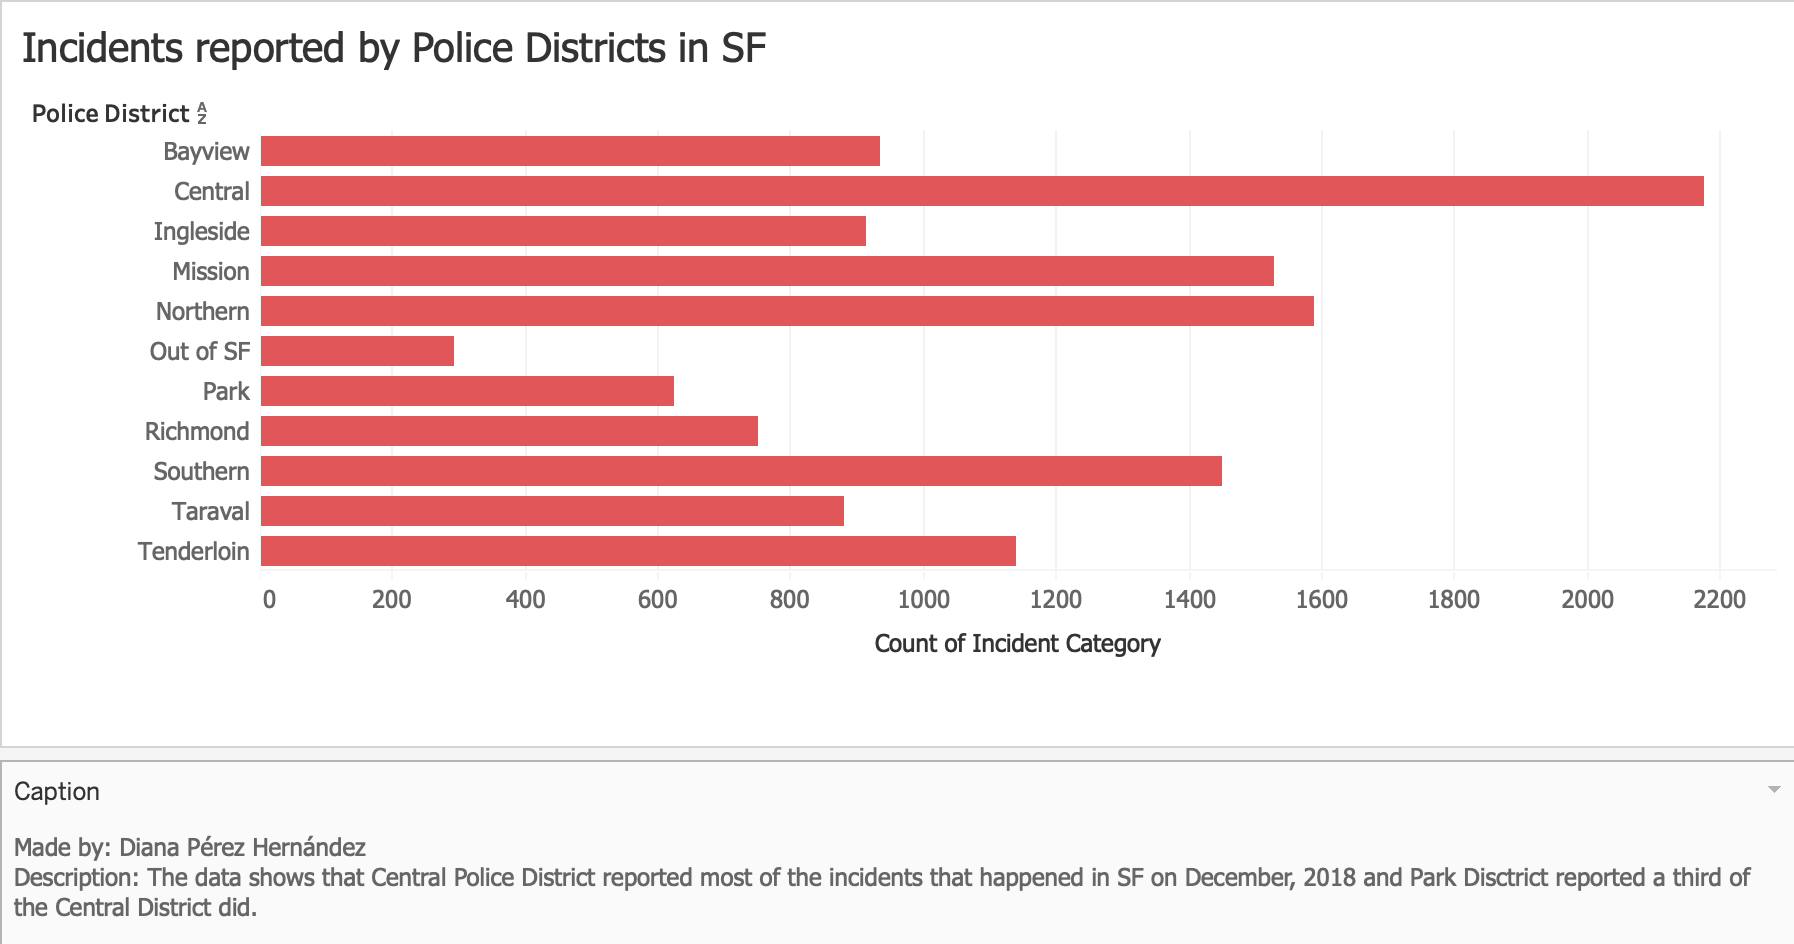
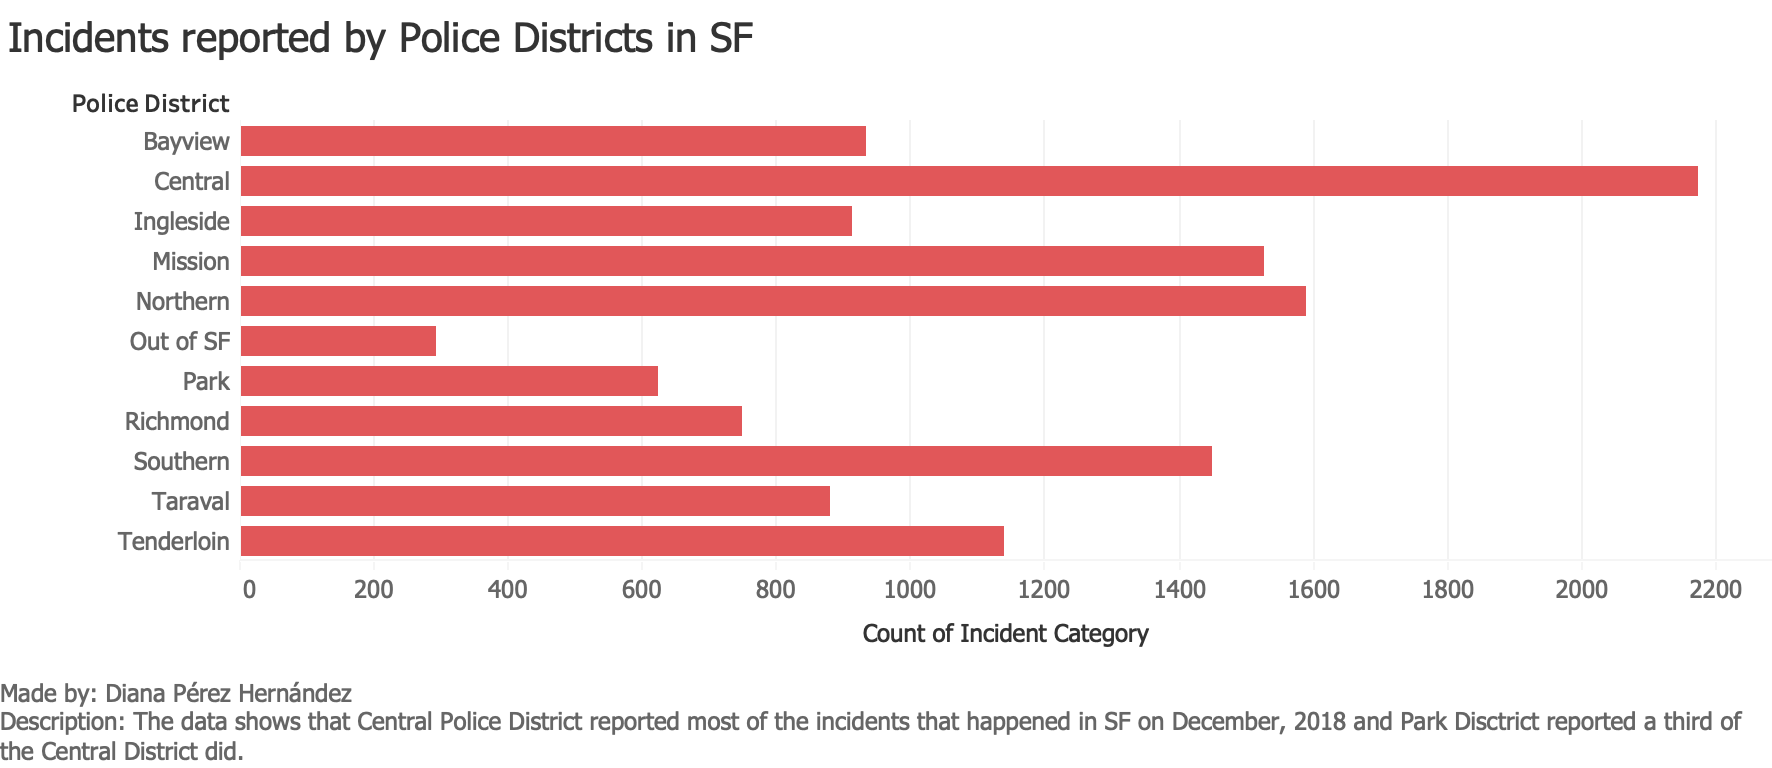
Replacing imgs, adding format to vis2

diff --git a/viz2.js b/viz2.js
@@ -9,7 +9,7 @@ var drawStackBar = function(data) {
   var svg = d3.select("body").select("svg#svg2");
   var bounds = svg.node().getBoundingClientRect();
   var plotWidth = 430;
-  var plotHeight = 500;
+  var plotHeight = 390;
   var countScale = d3.scaleLinear()
     .domain([countMin, countMax])
     .range([plotHeight - 100, 40])
@@ -17,11 +17,11 @@ var drawStackBar = function(data) {
 
   var dayScale = d3.scaleBand()
     .domain(policeDistrictByDay.keys())
-    .range([0, plotWidth + 300])
-    .paddingInner(0.4);
+    .range([0, plotWidth + 200])
+    .paddingInner(0.3);
 
   var margin = {
-    top:    -20,
+    top:    30,
     right:  45,
     bottom: 30,
     left:   80
@@ -42,7 +42,7 @@ var drawStackBar = function(data) {
 
   //Inspired by https://bl.ocks.org/KingOfCramers/04dcd9742a2be13d99db5f7a7480b4ca
   var districts = getDistricts();
-  console.log(districts);
+
   var stack = d3.stack()
       .keys(districts)
       .order(d3.stackOrderNone)
@@ -64,6 +64,79 @@ var drawStackBar = function(data) {
   var series = stack(policeDistrictByDay.values());
   var heightScale = d3.scaleLinear().domain([0,60]).range([20, 480]);
 
+  svg.append("text")
+        .attr("x", margin.left - 60)
+        .attr("y", margin.top)
+        .attr("text-anchor", "left")
+        .style("font-size", "23px")
+        .text("Daily Incidents reported by Police District");
+
+  svg.append("text")
+        .attr("x", margin.left - 360)
+        .attr("y", margin.top + 10)
+        .attr("text-anchor", "left")
+        .attr("transform", "rotate(-90)")
+        .style("font-size", "13px")
+        .text("Count of Incident Day");
+
+  svg.append("text")
+        .attr("x", margin.left + 280)
+        .attr("y", margin.top + 35)
+        .attr("text-anchor", "left")
+        .style("font-size", "13px")
+        .text("Day of Incident Date");
+
+  var caption = svg.append("text")
+        .attr("x", margin.left - 120)
+        .attr("y", margin.top + 400)
+        .attr("text-anchor", "right")
+        .style("font-size", "12px");
+
+  var captionText = "Made by: Diana Pérez Hernández\n"+
+        "Description: On December 25, the amount of incidents" +
+        "reported for every district had a significant decrease."+
+        "Still the amont of incidents\nreported every day doesn't "+
+        "vary much with an exception of December 25."
+
+  caption.selectAll("tspan.text")
+          .data(captionText.split("\n"))
+          .enter()
+          .append("tspan")
+          .attr("class", "text")
+          .text(d => d)
+          .attr("x", 20)
+          .attr("dx", 10)
+          .attr("dy", 15);
+
+  svg.append("text")
+    .attr("x", 735)
+    .attr("y", 65)
+    .attr("text-anchor", "left")
+    .style("font-size", "15px")
+    .text("Police District");
+
+  var y = 65;
+  var districtsReverse = districts.reverse();
+  for (var i in districtsReverse) {
+    svg.append("text")
+        .attr("x", 760)
+        .attr("y", y + 20)
+        .attr("text-anchor", "right")
+        .style("font-size", "14px")
+        .text(districts[i]);
+        y += 20;
+  }
+  y = 53;
+  for (var i in districtsReverse) {
+    console.log(colorScale(districtsReverse[i]) );
+    svg.append("rect")
+        .attr("x", 740)
+        .attr("y", y + 20)
+        .attr("width", 15)
+        .attr("height", 15)
+        .style("fill", colorScale(districtsReverse[i]));
+        y += 20;
+  }
   plot.selectAll("g.bar")
     .data(series)
     .enter()

diff --git a/viz1.js b/viz1.js
@@ -11,8 +11,8 @@ var drawBarChart = function(data) {
   //Took from http://bl.ocks.org/sjengle/e8c0d6abc0a8d52d4b11
   var svg = d3.select("body").select("svg#svg1");
   var bounds = svg.node().getBoundingClientRect();
-  var plotWidth = 430;
-  var plotHeight = 880;
+  var plotWidth = 350;
+  var plotHeight = 780;
 
   /*Scales*/
   var countScale = d3.scaleLinear()
@@ -27,10 +27,10 @@ var drawBarChart = function(data) {
 
 
   var margin = {
-    top:    -30,
+    top:    -10,
     right:  35,
     bottom: 30,
-    left:   40
+    left:   150
   };
   var plot = svg.select("g#plot");
   if (plot.size() < 1) {
@@ -46,38 +46,59 @@ var drawBarChart = function(data) {
 
   var yAxis = d3.axisLeft(districtScale);
 
-  var xPos = plotHeight - 450;
+  var xPos = plotHeight - 430;
   var yPos = plotWidth - 350;
 
   var grid = d3.axisBottom(countScale)
       .tickFormat("")
-      .tickSize(plotHeight - 550);
+      .tickSize(plotHeight - 530);
 
   plot.append("g")
         .attr("class", "grid")
-        .attr("transform", "translate(80, 100)")
+        .attr("transform", "translate(0, 100)")
         .call(grid);
 
   svg.append("text")
-        .attr("x", margin.left)
+        .attr("x", margin.left - 120)
         .attr("y", margin.top + 60)
         .attr("text-anchor", "left")
         .style("font-size", "23px")
         .text("Incidents reported by Police Districts in SF");
 
   svg.append("text")
-        .attr("x", margin.left)
+        .attr("x", margin.left - 90)
         .attr("y", margin.top + 90)
         .attr("text-anchor", "left")
         .style("font-size", "13px")
         .text("Police District");
 
   svg.append("text")
-        .attr("x", margin.left + 410)
-        .attr("y", margin.top + 470)
+        .attr("x", margin.left + 280)
+        .attr("y", margin.top + 390)
         .attr("text-anchor", "left")
         .style("font-size", "13px")
         .text("Count of Incident Category");
+
+  var caption = svg.append("text")
+        .attr("x", margin.left - 120)
+        .attr("y", margin.top + 420)
+        .attr("text-anchor", "left")
+        .style("font-size", "13px");
+
+  var captionText = "Made by: Diana Pérez Hernández\n"+
+        "Description: The data shows that Central Police District "+
+        "reported most of the incidents that happened in SF on December, "+
+        "2018 and Park Disctrict reported a third of\nthe Central District did."
+
+  caption.selectAll("tspan.text")
+          .data(captionText.split("\n"))
+          .enter()
+          .append("tspan")
+          .attr("class", "text")
+          .text(d => d)
+          .attr("x", 20)
+          .attr("dx", 10)
+          .attr("dy", 15);
 
   bars.enter()
     .append("rect")
